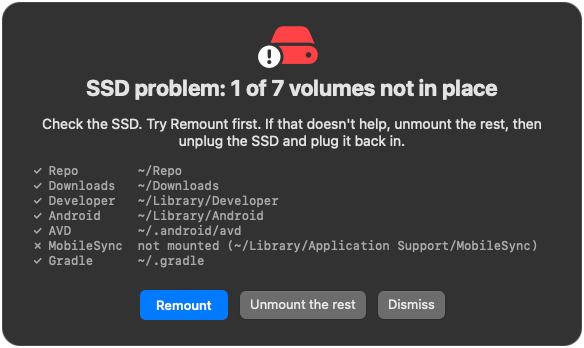
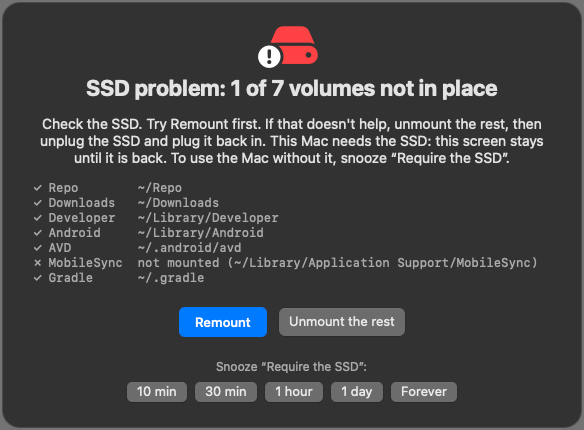
README: current alert and menu screenshots, and the Statistics window
- alert.png: the alert as it is now, with "Require the SSD"'s snooze choices in place of Dismiss
- menu.png: the menu with Open Statistics, Require the SSD, Test the alarm sound and Settings
- statistics.png (new): the Statistics window with real traffic, under the Statistics section

All three are sRGB with no other metadata than the screenshot's size.

diff --git a/README.md b/README.md
@@ -11,7 +11,7 @@ So we moved those folders onto an external SSD that stays plugged in. This repo 
 and a small menu bar app, **SSD Monitor**, that keeps an eye on the SSD.
 
 <p align="center">
-  <img src="docs/images/alert.png" width="520" alt="SSD Monitor's alert: SSD problem, 1 of 7 volumes not in place, with Remount, Unmount the rest and Dismiss buttons">
+  <img src="docs/images/alert.png" width="520" alt="SSD Monitor's alert: SSD problem, 1 of 7 volumes not in place, with Remount and Unmount the rest buttons, and the choices to snooze Require the SSD for 10 min, 30 min, 1 hour, 1 day or forever">
 </p>
 
 ## 🎯 The goal
@@ -155,7 +155,7 @@ It runs the recovery by itself. When it's done, it shows a green check and anyth
 The SSD's free space, each folder's state, and a few actions.
 
 <p align="center">
-  <img src="docs/images/menu.png" width="360" alt="SSD Monitor's menu: SSD free space, the seven volumes with check marks, Run resume now, Safely eject the SSD, Alert sound, Launch at login, Open log, Quit">
+  <img src="docs/images/menu.png" width="380" alt="SSD Monitor's menu: SSD free space, the seven volumes with check marks, Run resume now, Safely eject the SSD, Open Statistics, Require the SSD, Alert sound, Test the alarm sound, Launch at login, Open log, Settings, Quit">
 </p>
 
 > [!NOTE]
@@ -166,10 +166,14 @@ The SSD's free space, each folder's state, and a few actions.
 ### Statistics
 
 **Open Statistics…** in the menu shows how fast the SSD reads and writes: right now, and as a graph of the last
-10 minutes. Hover over the graph to see any second. Tick or untick volumes to look at just the ones you care
-about, and see which programs are reading and writing them right now, and how much each has read and written
-since you opened the window, per volume. It also shows the highest speeds since you opened it, and how much
-has been read and written since the SSD was plugged in.
+10 minutes, reads going up and writes going down (hover over it to see any second). Tick or untick volumes to
+look at just the ones you care about, and see which programs are reading and writing them right now, and how
+much each has read and written since you opened the window, per volume. It also shows the highest speeds since
+you opened it, and how much has been read and written since the SSD was plugged in.
+
+<p align="center">
+  <img src="docs/images/statistics.png" width="860" alt="SSD Statistics window: read and write speed, a 10-minute graph, the volumes with checkboxes and their speeds, the programs of the last 3 seconds, and each program's reads and writes since the window opened, per volume">
+</p>
 
 It only runs while the window is open, and starts fresh each time you open it.
 
